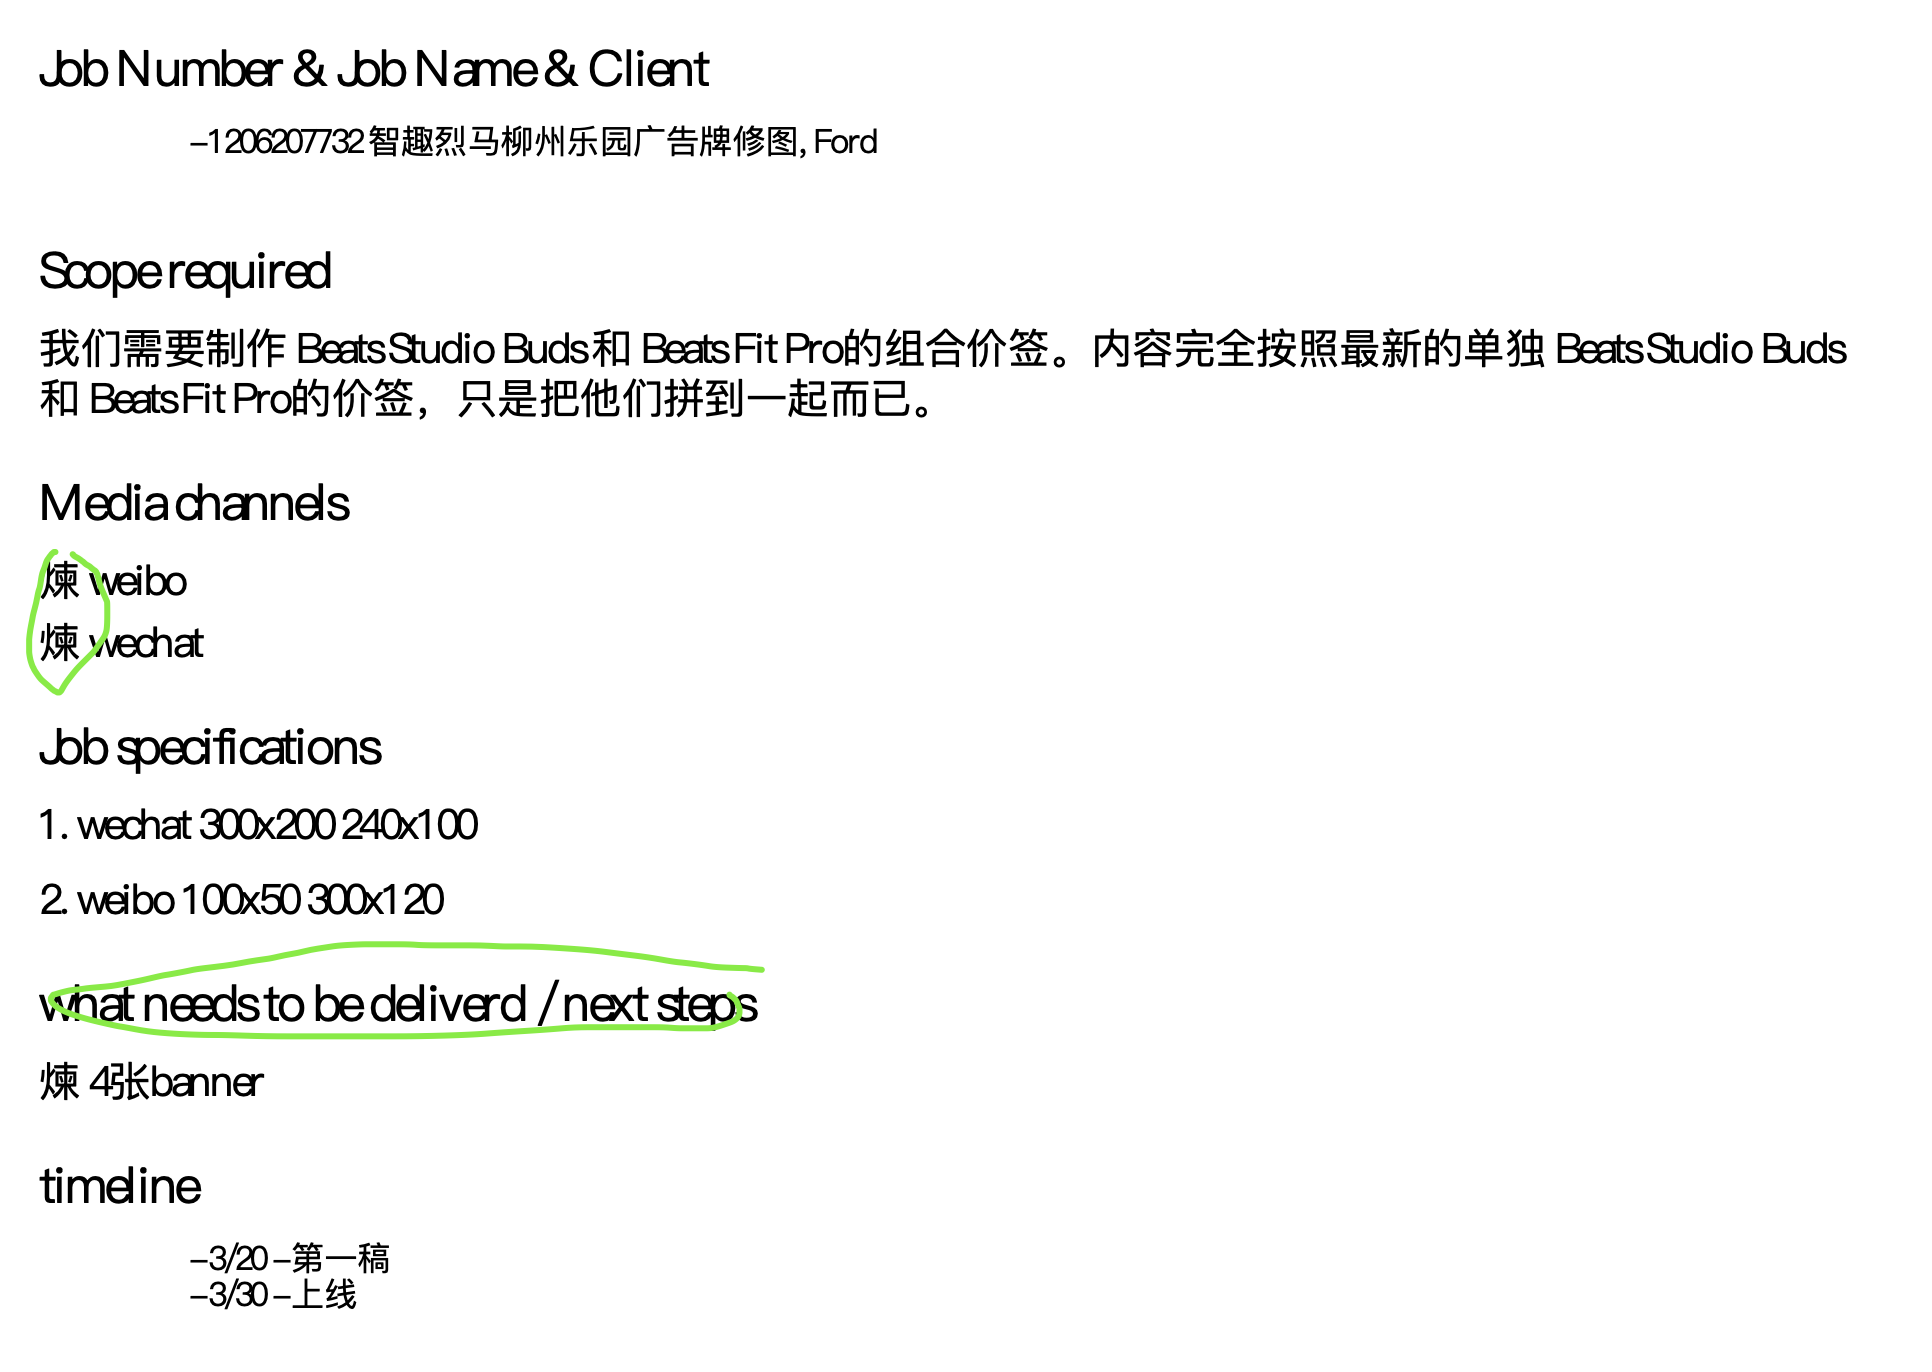
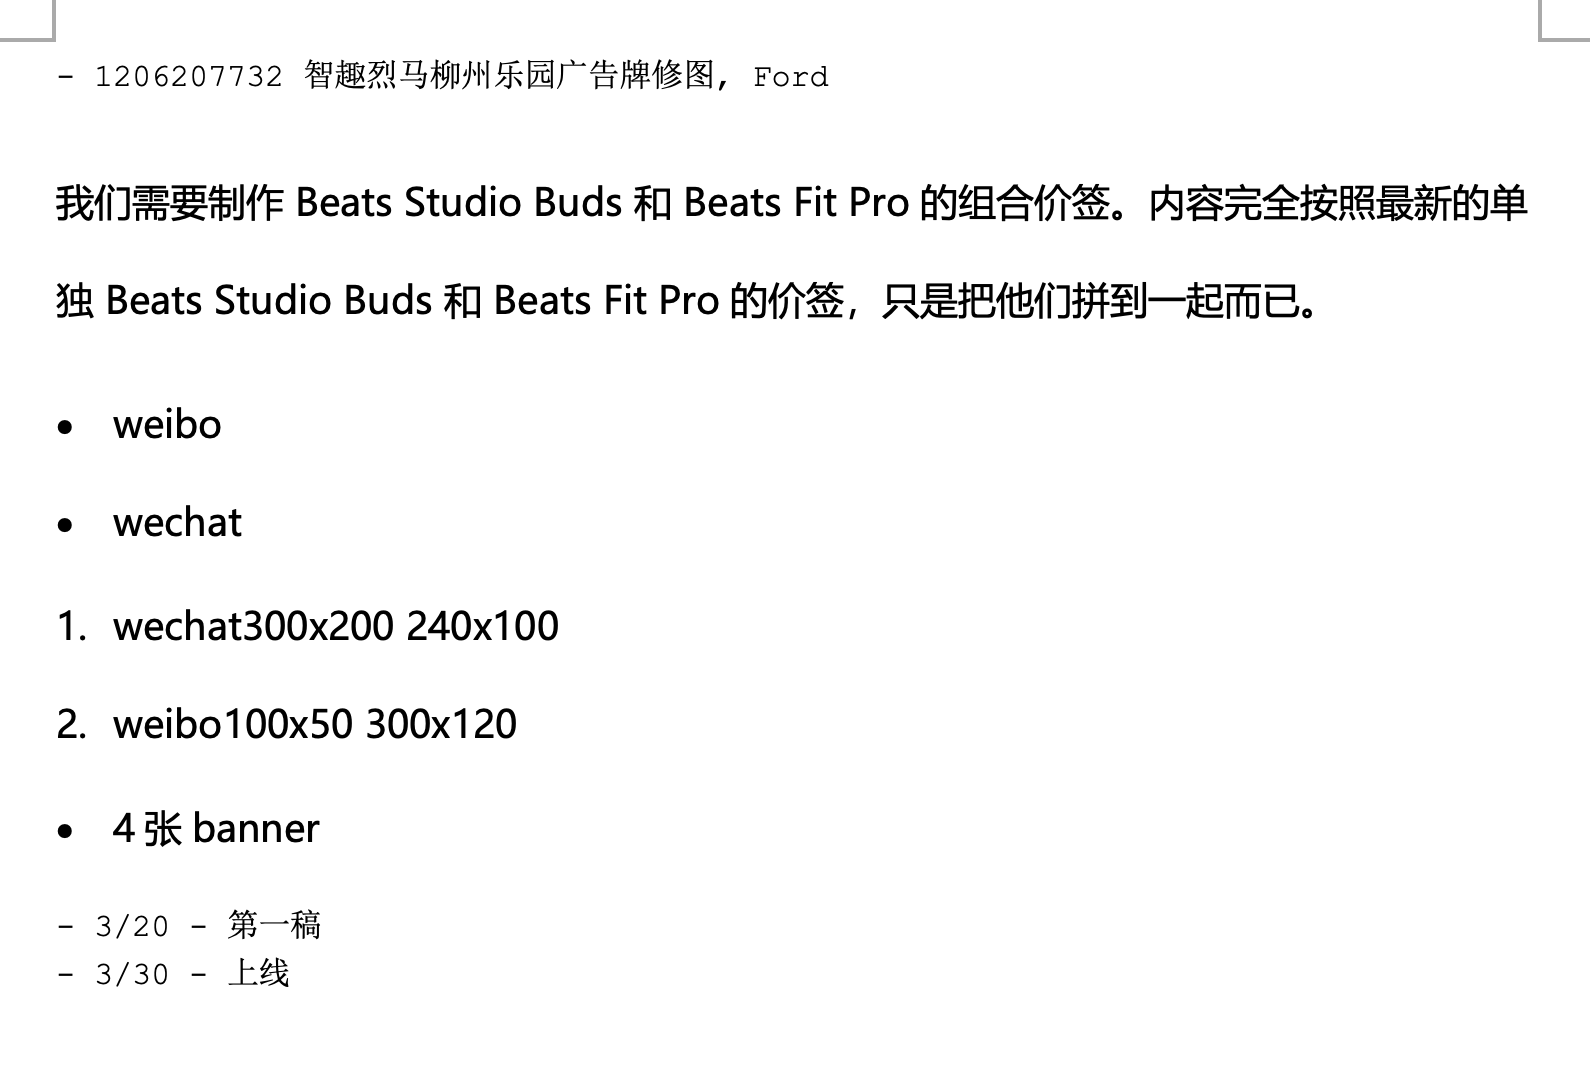
fix: 修复DOCX文档格式问题，使用HTML生成以保持正确格式
问题：
- DOCX文档没有按照brief template格式生成
- 标题（######）显示为普通文本
- 缩进（\t）没有被保留
- 列表嵌套结构丢失

解决方案：
1. 重新添加markdown_to_html()函数，将Markdown转换为HTML
2. ###### 转换为 h1（加粗、18px、带下划线的大标题）
3. 缩进列表项（\t1. 或 \t-）转换为嵌套列表（ol class="nested-list"）
4. 缩进的普通文本转换为带 margin-left 的段落
5. 使用 create_docx_from_html() 方法生成文档
6. 添加CSS样式：
   - h1: 18px, 加粗, 黑色, 带下划线
   - 嵌套列表: margin-left 20px
   - 段落: 两端对齐

格式保留：
- ✅ 标题（######）→ 加粗的大标题（带下划线）
- ✅ 缩进列表（\t1.）→ 嵌套的有序列表
- ✅ 列表项（-）→ 无序列表
- ✅ 缩进文本（\t）→ 带左边距的段落
- ✅ 普通文本 → 正常段落

测试结果：
- DOCX文档成功生成：brief_Ford_20260318_145034.docx
- 格式正确，符合brief template
- 邮件发送成功：frank.gu@wppproduction.com
- 项目创建成功：https://www.notion.so/327b873e83cb81288359cb9ed2a03aad

diff --git a/src/tools/send_brief_email_tool.py b/src/tools/send_brief_email_tool.py
@@ -95,6 +95,162 @@ def download_image(url: str, save_path: str) -> bool:
         return False
 
 
+def markdown_to_html(brief_content: str) -> str:
+    """将Markdown内容转换为HTML，以保持正确的格式
+    
+    Args:
+        brief_content: Markdown格式的内容
+        
+    Returns:
+        HTML格式的内容
+    """
+    html_lines = []
+    html_lines.append('<!DOCTYPE html>')
+    html_lines.append('<html lang="zh-CN">')
+    html_lines.append('<head>')
+    html_lines.append('<meta charset="UTF-8">')
+    html_lines.append('<style>')
+    html_lines.append('body {')
+    html_lines.append('  font-family: "Microsoft YaHei", "SimHei", Arial, sans-serif;')
+    html_lines.append('  font-size: 12px;')
+    html_lines.append('  line-height: 1.8;')
+    html_lines.append('  color: #333;')
+    html_lines.append('  margin: 40px;')
+    html_lines.append('}')
+    html_lines.append('h1 {')
+    html_lines.append('  font-family: "Microsoft YaHei", "SimHei", Arial, sans-serif;')
+    html_lines.append('  font-size: 18px;')
+    html_lines.append('  font-weight: bold;')
+    html_lines.append('  color: #000;')
+    html_lines.append('  margin-top: 20px;')
+    html_lines.append('  margin-bottom: 10px;')
+    html_lines.append('  border-bottom: 2px solid #000;')
+    html_lines.append('  padding-bottom: 5px;')
+    html_lines.append('}')
+    html_lines.append('ul, ol {')
+    html_lines.append('  margin: 5px 0;')
+    html_lines.append('  padding-left: 20px;')
+    html_lines.append('}')
+    html_lines.append('li {')
+    html_lines.append('  margin: 5px 0;')
+    html_lines.append('  line-height: 1.8;')
+    html_lines.append('}')
+    html_lines.append('p {')
+    html_lines.append('  margin: 10px 0;')
+    html_lines.append('  line-height: 1.8;')
+    html_lines.append('  text-align: justify;')
+    html_lines.append('}')
+    html_lines.append('.nested-list {')
+    html_lines.append('  margin-left: 20px;')
+    html_lines.append('}')
+    html_lines.append('</style>')
+    html_lines.append('</head>')
+    html_lines.append('<body>')
+    
+    # 解析Markdown内容
+    lines = brief_content.split('\n')
+    current_title = None
+    in_ol = False
+    in_nested_ol = False
+    
+    for i, line in enumerate(lines):
+        # 处理标题（######）
+        if line.startswith('######'):
+            # 关闭之前的列表
+            if in_nested_ol:
+                html_lines.append('</ol>')
+                in_nested_ol = False
+            if in_ol:
+                html_lines.append('</ol>')
+                in_ol = False
+            
+            text = line[6:].strip()
+            html_lines.append(f'<h1>{text}</h1>')
+        # 处理缩进的列表项（\t1. 或 \t-）
+        elif line.startswith('\t'):
+            text = line.lstrip('\t').strip()
+            if text.startswith('-'):
+                if not in_nested_ol:
+                    html_lines.append('<ul class="nested-list">')
+                    in_nested_ol = True
+                text = text[1:].strip()
+                html_lines.append(f'<li>{text}</li>')
+            elif text and text[0].isdigit() and ('. ' in text or '.\t' in text):
+                if not in_nested_ol:
+                    html_lines.append('<ol class="nested-list">')
+                    in_nested_ol = True
+                # 提取数字后的文本
+                if '. ' in text:
+                    text = text.split('. ', 1)[1] if '. ' in text else text
+                elif '.\t' in text:
+                    text = text.split('.\t', 1)[1] if '.\t' in text else text
+                html_lines.append(f'<li>{text}</li>')
+            else:
+                # 缩进的普通文本
+                if in_nested_ol:
+                    html_lines.append('</ol>')
+                    in_nested_ol = False
+                if in_ol:
+                    html_lines.append('</ol>')
+                    in_ol = False
+                html_lines.append(f'<p style="margin-left: 20px;">{text}</p>')
+        # 处理列表项（- 或 数字.）
+        elif line.strip().startswith('-'):
+            # 关闭嵌套列表
+            if in_nested_ol:
+                html_lines.append('</ol>')
+                in_nested_ol = False
+            if not in_ol:
+                html_lines.append('<ul>')
+                in_ol = True
+            text = line.lstrip('-').strip()
+            html_lines.append(f'<li>{text}</li>')
+        elif line.strip() and line.strip()[0].isdigit() and ('. ' in line.strip() or '.\t' in line.strip()):
+            # 关闭嵌套列表
+            if in_nested_ol:
+                html_lines.append('</ol>')
+                in_nested_ol = False
+            if not in_ol:
+                html_lines.append('<ol>')
+                in_ol = True
+            text = line.strip()
+            # 提取数字后的文本
+            if '. ' in text:
+                text = text.split('. ', 1)[1] if '. ' in text else text
+            elif '.\t' in text:
+                text = text.split('.\t', 1)[1] if '.\t' in text else text
+            html_lines.append(f'<li>{text}</li>')
+        # 处理空行
+        elif not line.strip():
+            if in_nested_ol:
+                html_lines.append('</ol>')
+                in_nested_ol = False
+            if in_ol:
+                html_lines.append('</ol>')
+                in_ol = False
+        # 处理普通文本
+        elif line.strip():
+            if in_nested_ol:
+                html_lines.append('</ol>')
+                in_nested_ol = False
+            if in_ol:
+                html_lines.append('</ol>')
+                in_ol = False
+            text = line.strip()
+            html_lines.append(f'<p>{text}</p>')
+    
+    # 关闭未关闭的列表
+    if in_nested_ol:
+        html_lines.append('</ol>')
+    if in_ol:
+        html_lines.append('</ol>')
+    
+    html_lines.append('</body>')
+    html_lines.append('</html>')
+    
+    return '\n'.join(html_lines)
+
+
 @tool
 def send_brief_to_email(brief_content: str, to_email: str, client_name: str = None, runtime: ToolRuntime = None) -> str:
     """
@@ -152,8 +308,11 @@ def send_brief_to_email(brief_content: str, to_email: str, client_name: str = No
             )
             docx_client = DocumentGenerationClient(docx_config=docx_config)
             
-            # 使用Markdown内容生成DOCX（DOCX对中文支持更好）
-            docx_url = docx_client.create_docx_from_markdown(clean_brief, pdf_title)
+            # 将Markdown转换为HTML，以保持正确的格式
+            html_content = markdown_to_html(clean_brief)
+            
+            # 使用HTML内容生成DOCX
+            docx_url = docx_client.create_docx_from_html(html_content, pdf_title)
             
         except Exception as e:
             return f"❌ 生成文档失败：{str(e)}"
